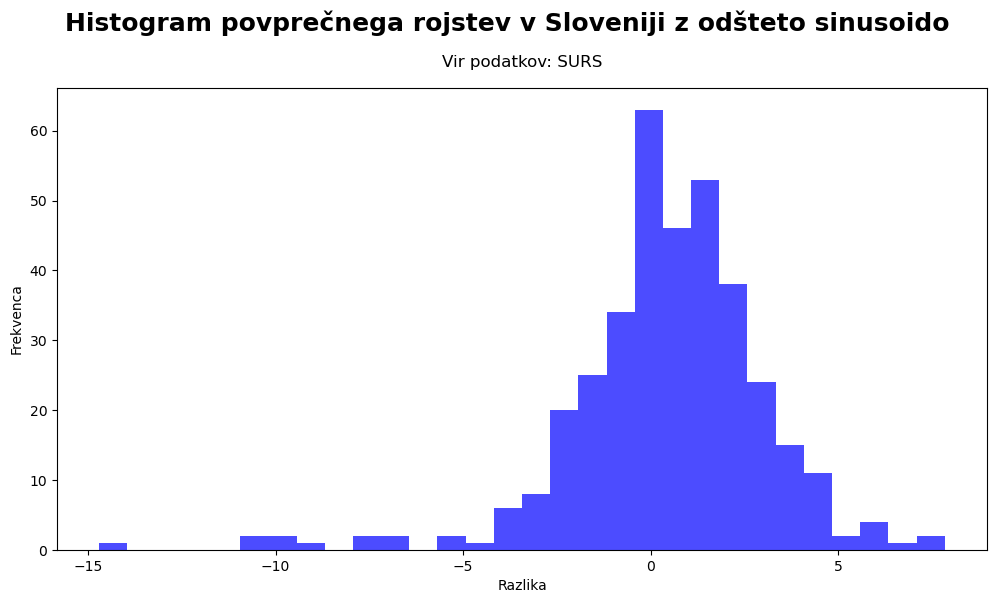
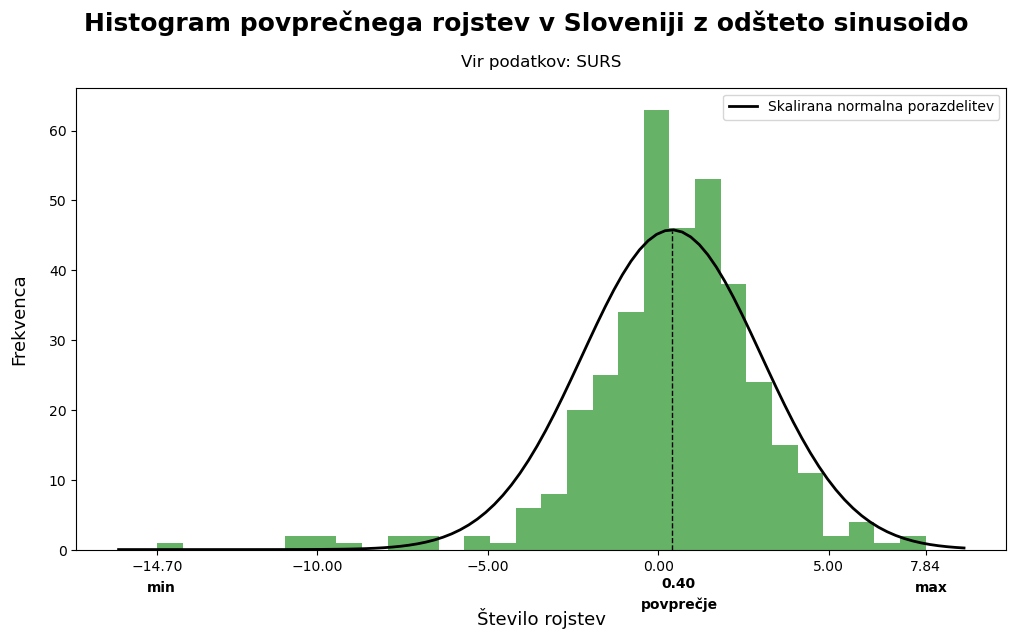
updates blogpost

diff --git a/_posts/2026-11-07-graf-rojstev.md b/_posts/2026-11-07-graf-rojstev.md
@@ -1,0 +1,92 @@
+---
+layout: post
+title: Graf rojstev
+author: Janez Ignacij Jereb
+date: 2026-11-07
+tags: [grafi]
+toc: false
+---
+
+## O čem se gre?
+
+Pri predmetu Interaktivnost in oblikovanje informacij smo za domačo nalogo morali najti neko vizualizacijo in jo oceniti. Jaz sem izbral graf o [številu rojstev v Kanadi](https://www.reddit.com/r/dataisbeautiful/comments/1x7g4th/most_common_birthdates_in_canada_les_dates_de/), ki sem ga našel na redditu.
+
+<blockquote class="reddit-embed-bq" data-embed-theme="dark" style="height:500px" data-embed-created="2026-11-06T15:36:13Z">
+<a href="https://www.reddit.com/r/dataisbeautiful/comments/1x7g4th/most_common_birthdates_in_canada_les_dates_de/">Most common birthdates in Canada / Les dates de naissance les plus communes au Canada</a><br> by
+<a href="https://www.reddit.com/user/StatCanada/">u/StatCanada</a> in
+<a href="https://www.reddit.com/r/dataisbeautiful/">dataisbeautiful</a>
+</blockquote>
+<script async src="https://embed.reddit.com/widgets.js" charset="UTF-8"></script>
+
+Ta graf prikazuje rank dneva v letu po številu rojstev. S prikazom po kvadratkih vizulizacija spominja na koledar. To jo naredi privlačno, vendar pa otežuje primerjavo med dnevi. Na primer, čeprav se iz vizualizacije lepo prebere, da je 20. september dan z največ rojstvi, ne moremo vedeti velikost razlike. Prav tako pa nam ne da neke zgodbe o rojstvih, ki se jo zagotovo, da najti (z izjemo sezonskosti rojstev). Znan primer je, da je na Valentinovo več spočetij kot druge dni. Pa to velja tudi za kakšen drug dan?
+
+Odločil sem se, da poskusim izboljšati vizualizacijo in jo uporabiti na slovenskih podatkih. Tukaj bom prikazal (delno izmišljeno) pot do končnega prikaza:
+
+## Zgodba prikaza podatkov
+
+Podatke sem prenesel s [SURS-a](https://pxweb.stat.si/SiStatData/pxweb/sl/Data/Data/05J1031S.px).
+Začel sem tako, da sem podatke prikazal na preprostem razsevnem grafu.
+Vidi se podatke od leta 2000 do 2025. Oblak točk tvori nekakšen "nazobčan valček".
+
+<a href="../images/graf-rojstev-imgs/img_1.png" class="glightbox">
+  <img src="../images/graf-rojstev-imgs/img_1.png"
+       alt="Graf rojstev"
+       style="max-width: 100%;">
+</a>
+
+Naredimo še histogram podatkov, da vidimo njihovo porazdelitev.
+
+<a href="../images/graf-rojstev-imgs/img_2.png" class="glightbox">
+  <img src="../images/graf-rojstev-imgs/img_2.png"
+       alt="Graf rojstev"
+       style="max-width: 100%;">
+</a>
+
+"Zobčki" predstavljajo sezonskost. Če pogledamo bližje (ali pa povprečimo), vidimo sinusoido, ki se ponovi vsako leto.
+
+Če poračunamo povprečno število rojstev na dan dobim naslednji graf:
+
+<a href="../images/graf-rojstev-imgs/img_3.png" class="glightbox">
+  <img src="../images/graf-rojstev-imgs/img_3.png"
+       alt="Graf rojstev"
+       style="max-width: 100%;">
+</a>
+
+Sedaj lahko vidimo, da je večino rojstev med avgustom in septembrom. To si najlažje razložimo tako, da namesto namesto števila rojstev, gledamo število spočetij. Števila spočetij ni v podatkih, zato jih interpoliramo s tem, da sinusoido zamaknemo za 9 mesecev levo. Bom tudi dopisal mesece spočetja, da se ni treba ročno premikati 9 mesecev levo. Zdi se, da je večino spočetij v zimskih mesecih.
+
+<a href="../images/graf-rojstev-imgs/img_4.png" class="glightbox">
+  <img src="../images/graf-rojstev-imgs/img_4.png"
+       alt="Graf rojstev"
+       style="max-width: 100%;">
+</a>
+
+Zanimiva so odstopanja od trenda. Še posebej spodnji osamelci. Večino spodnjih osamelcev lahko razložimo z dorisanimi prazniki.
+
+<a href="../images/graf-rojstev-imgs/img_5.png" class="glightbox">
+  <img src="../images/graf-rojstev-imgs/img_5.png"
+       alt="Graf rojstev"
+       style="max-width: 100%;">
+</a>
+
+Če bolj podrobno pogledamo graf, lahko vidimo, da so nekje prisotni neki "hribčki".
+Zato da lažje ocenimo, ali gre za dejanska odstopanja lahko odštejemo sinusoido in s tem dobimo
+"desezonirane" podatke.
+
+<a href="../images/graf-rojstev-imgs/img_6.png" class="glightbox">
+  <img src="../images/graf-rojstev-imgs/img_6.png"
+       alt="Graf rojstev"
+       style="max-width: 100%;">
+</a>
+
+Dodatna potrditev za smiselnost sinusoide vidimo s tem, da se podatki (na videz)
+porazdeljujejo normalno.
+
+<a href="../images/graf-rojstev-imgs/img_7.png" class="glightbox">
+  <img src="../images/graf-rojstev-imgs/img_7.png"
+       alt="Graf rojstev"
+       style="max-width: 100%;">
+</a>
+
+## Zaključek
+
+S tem zaključimo zgodbo o tem grafu. Seveda, je še mnogo zanivih smeri, ki bi jih lahko ubrali (primerjava med leti, dnevi v tednu, uporaba verjetnostnega programiranja, itd.). Upam, da je bila tako zanimiva za branje, kot je bilo meni pri risanju grafa.
